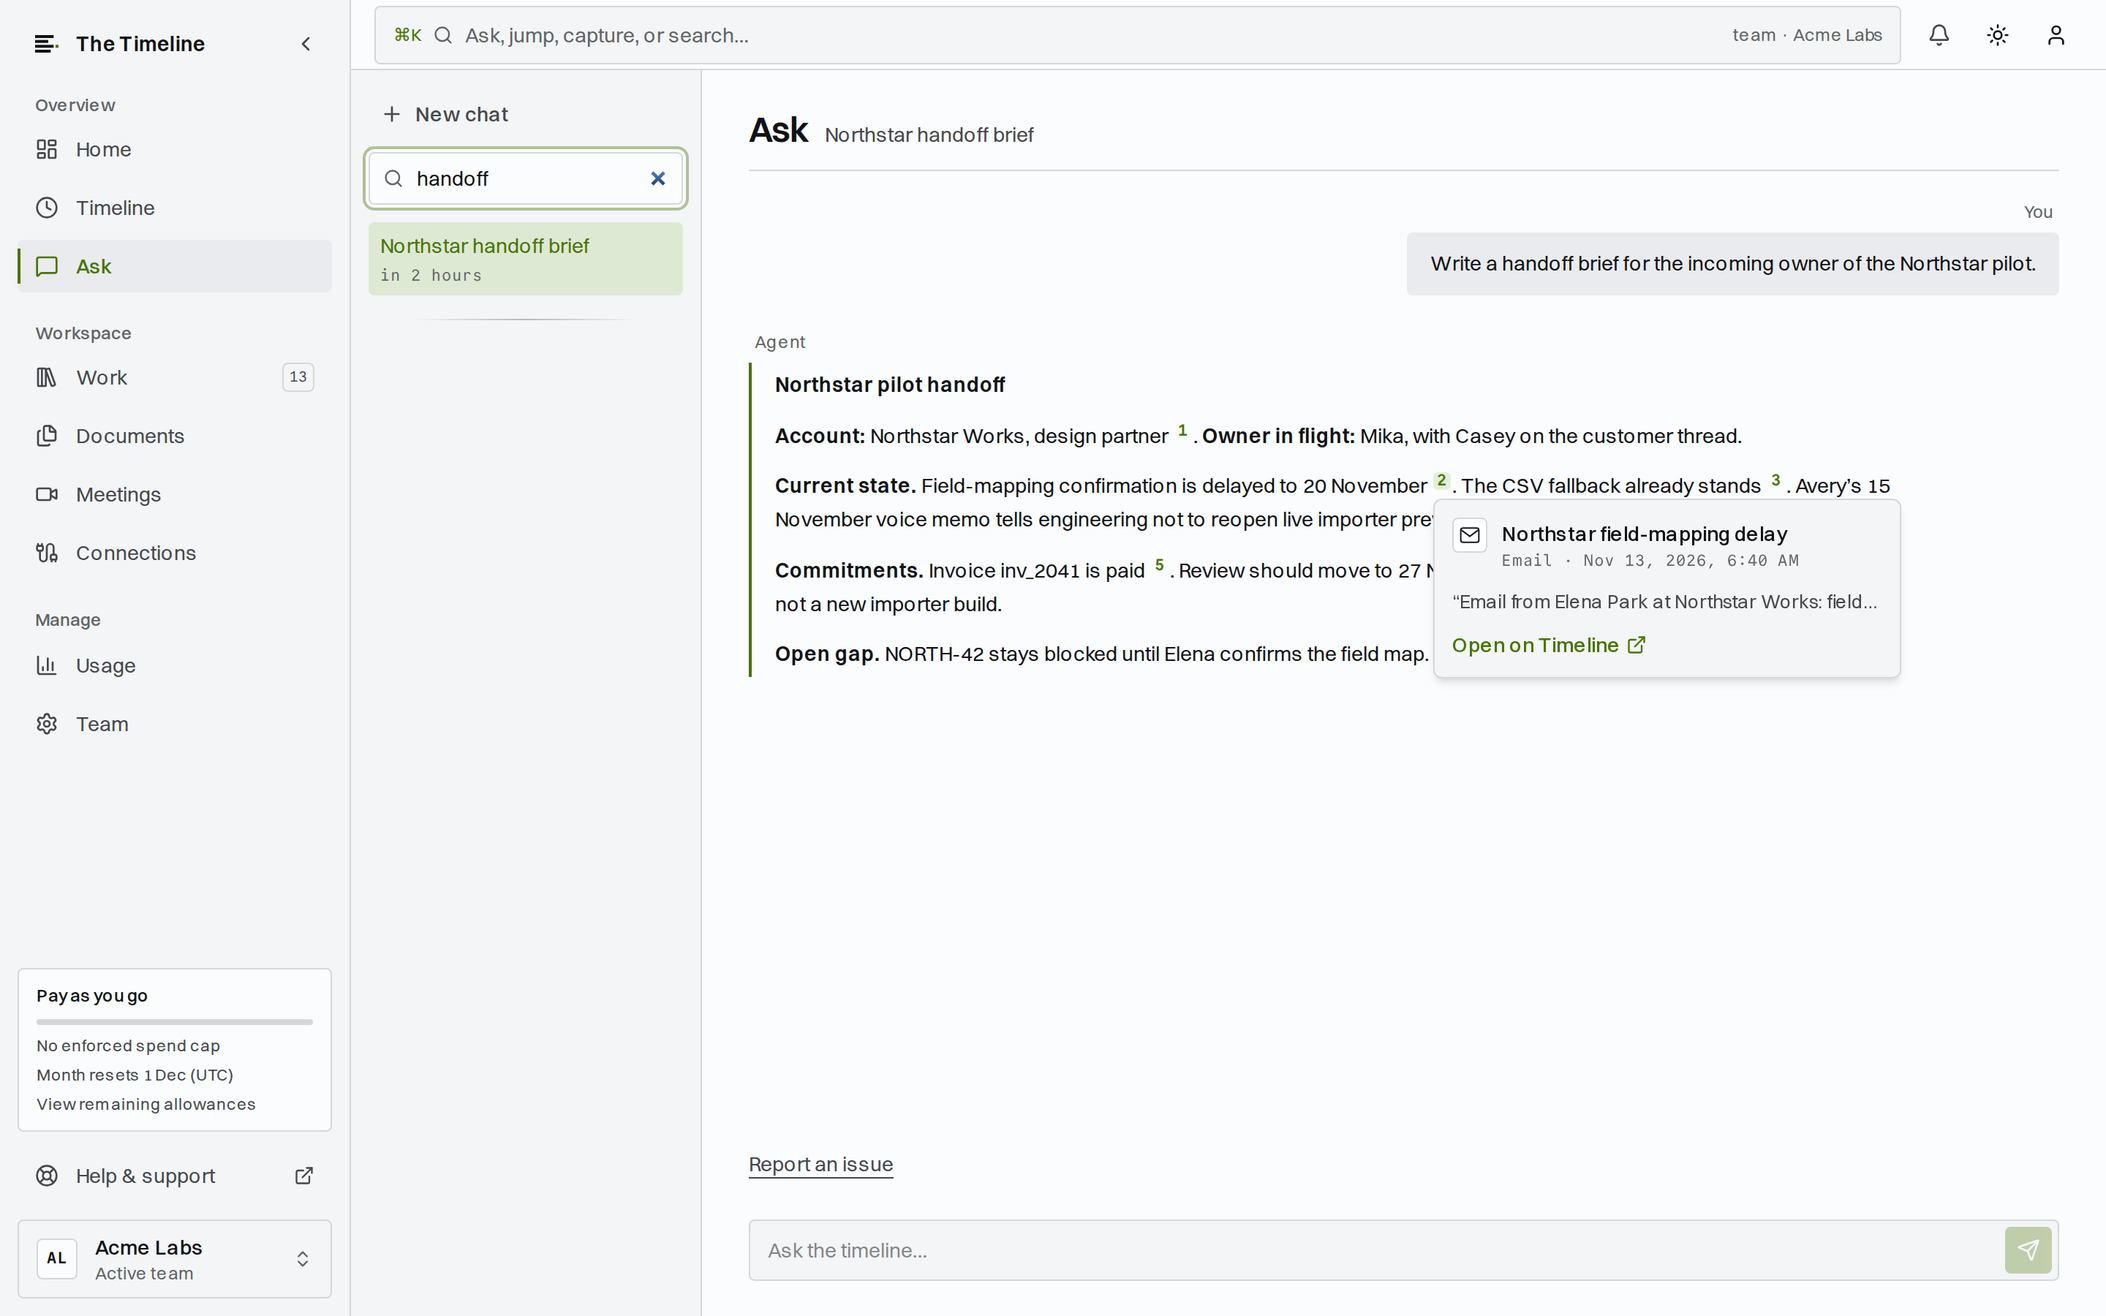
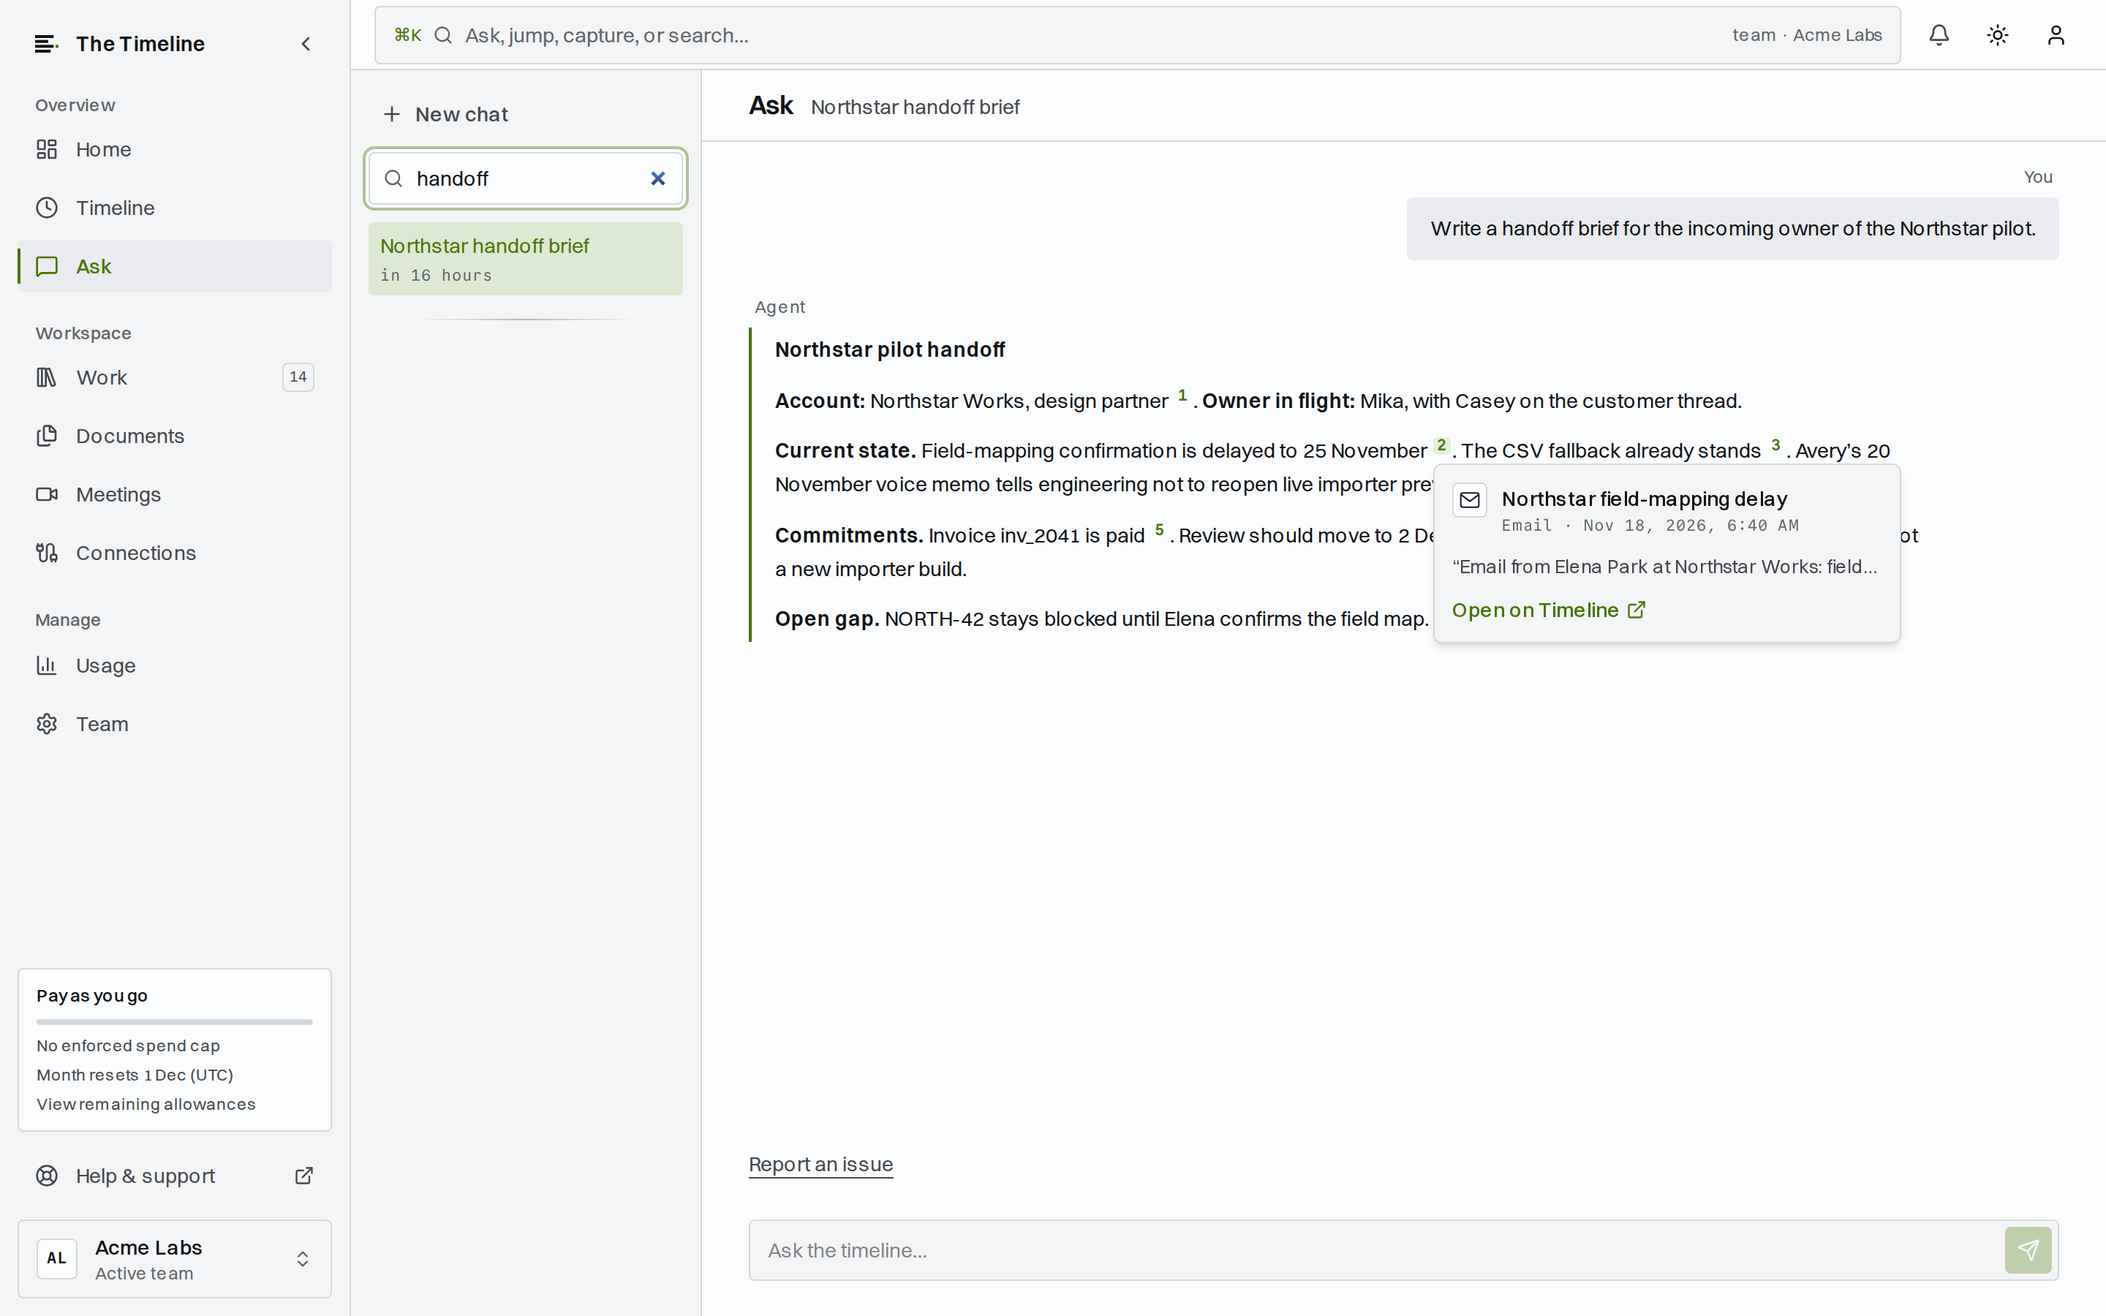
Refresh product-tour screenshots and add mobile Sources/project/Approvals (#598)
* Refresh product-tour screenshots and add mobile Sources/project/Approvals

Recapture seeded light/dark pairs marked for citation and demo-seed refresh,
add phone captures for Sources, project detail, and Approvals, and wire those
mobile assets into the tour below the md breakpoint.

* Stagger demo proposal and summary timestamps for marketing captures

Drive approval createdAt and object-summary generatedAt from evidence and
story source times so tour screenshots no longer share one seed-clock stamp.

* Fix marketing Approvals capture toast and pending count drift

Scope consent dismissal to analytics dialog/banner only so Approvals
Reject is never clicked mid-capture. Clear resolvedAt on corpus proposal
reseed so inventory counts stay aligned with the pending list after a
prior reject, then recapture 29/57 cleanly.

---------

Changed region(s): [[0.3438, 0.2489, 0.9062, 0.5289], [0.6875, 0.1556, 0.9688, 0.2178], [0.3438, 0.0622, 0.5, 0.1244]]

diff --git a/scripts/demo-corpus/insert.ts b/scripts/demo-corpus/insert.ts
@@ -169,6 +169,38 @@ function seedNow(): Date {
   return getDemoSeedNow();
 }
 
+function corpusEventOccurredAt(eventId: string): Date {
+  const row = CORPUS_EVENTS.find((event) => event.id === eventId);
+  if (!row) throw new Error(`Missing corpus event ${eventId}`);
+  return new Date(row.occurredAt);
+}
+
+/** Proposal times follow the triggering evidence, staggered by index so the queue does not share one seed clock. */
+export function demoProposalCreatedAt(eventOccurredAt: string | Date, proposalIndex: number): Date {
+  const base = new Date(eventOccurredAt).getTime();
+  if (!Number.isFinite(base)) {
+    throw new Error(`Invalid evidence time for demo proposal index ${String(proposalIndex)}`);
+  }
+  // 8–N minutes after the evidence so same-day proposals stay distinct without collapsing to seedNow.
+  return new Date(base + (8 + proposalIndex * 13) * 60_000);
+}
+
+/** Object-summary "Updated" stamps follow the latest cited source, not the seed wall clock. */
+export function demoSummaryGeneratedAt(
+  latestSourceOccurredAt: string | Date,
+  lagMinutes = 35,
+): Date {
+  const base = new Date(latestSourceOccurredAt).getTime();
+  if (!Number.isFinite(base)) {
+    throw new Error('Invalid source time for demo object summary');
+  }
+  return new Date(base + lagMinutes * 60_000);
+}
+
+function proposalCreatedAt(eventId: string, proposalIndex: number): Date {
+  return demoProposalCreatedAt(corpusEventOccurredAt(eventId), proposalIndex);
+}
+
 export async function insertExpandedDemoCorpus(tx: SeedTx): Promise<void> {
   const passwordHash = await hashPassword(CORPUS_PASSWORD);
   await insertPeople(tx, passwordHash);
@@ -1123,7 +1155,7 @@ async function insertObjects(tx: SeedTx): Promise<void> {
           tasks: 0,
           changes: 0,
         },
-        generatedAt: seedNow(),
+        generatedAt: demoSummaryGeneratedAt(corpusEventOccurredAt(dataRoomEventId), 42),
         model: DEMO_FIXTURE_VERSION,
         promptVersion: DEMO_FIXTURE_VERSION,
       },
@@ -1182,7 +1214,7 @@ async function insertObjects(tx: SeedTx): Promise<void> {
           tasks: 1,
           changes: 0,
         },
-        generatedAt: seedNow(),
+        generatedAt: demoSummaryGeneratedAt(corpusEventOccurredAt(northstarVoiceEventId), 28),
         model: DEMO_FIXTURE_VERSION,
         promptVersion: DEMO_FIXTURE_VERSION,
       },
@@ -1221,7 +1253,7 @@ async function insertObjects(tx: SeedTx): Promise<void> {
           tasks: 0,
           changes: 0,
         },
-        generatedAt: seedNow(),
+        generatedAt: demoSummaryGeneratedAt(corpusEventOccurredAt(invoicePaidEventId), 31),
         model: DEMO_FIXTURE_VERSION,
         promptVersion: DEMO_FIXTURE_VERSION,
       },
@@ -1234,6 +1266,7 @@ async function insertObjects(tx: SeedTx): Promise<void> {
         entityId: sql`excluded.entity_id`,
         sourceRefs: sql`excluded.source_refs`,
         sourceCounts: sql`excluded.source_counts`,
+        generatedAt: sql`excluded.generated_at`,
       },
     });
 
@@ -1665,21 +1698,24 @@ async function insertProposals(tx: SeedTx): Promise<void> {
   await tx
     .insert(agentSuggestions)
     .values(
-      CORPUS_PROPOSALS.map((row) => ({
-        id: row.id,
-        teamId: TEAM_ID,
-        source: row.source,
-        status: 'pending' as const,
-        title: row.title,
-        summary: row.summary,
-        reason: row.summary,
-        confidence: 'high' as const,
-        dedupeKey: `demo-seed:proposal:${row.id}`,
-        visibility: 'team' as const,
-        metadata: { fixture_version: DEMO_FIXTURE_VERSION },
-        createdAt: seedNow(),
-        updatedAt: seedNow(),
-      })),
+      CORPUS_PROPOSALS.map((row, index) => {
+        const createdAt = proposalCreatedAt(row.eventId, index);
+        return {
+          id: row.id,
+          teamId: TEAM_ID,
+          source: row.source,
+          status: 'pending' as const,
+          title: row.title,
+          summary: row.summary,
+          reason: row.summary,
+          confidence: 'high' as const,
+          dedupeKey: `demo-seed:proposal:${row.id}`,
+          visibility: 'team' as const,
+          metadata: { fixture_version: DEMO_FIXTURE_VERSION },
+          createdAt,
+          updatedAt: createdAt,
+        };
+      }),
     )
     .onConflictDoUpdate({
       target: agentSuggestions.id,
@@ -1689,26 +1725,36 @@ async function insertProposals(tx: SeedTx): Promise<void> {
         reason: sql`excluded.reason`,
         source: sql`excluded.source`,
         status: sql`excluded.status`,
-        updatedAt: seedNow(),
+        // Idempotent reseed must clear prior accept/reject residue so inventory
+        // counts (resolved_at IS NULL) match the pending list again.
+        resolvedAt: sql`NULL`,
+        resolvedByUserId: sql`NULL`,
+        createdAt: sql`excluded.created_at`,
+        updatedAt: sql`excluded.updated_at`,
       },
     });
   await tx
     .insert(agentSuggestionItems)
     .values(
-      CORPUS_PROPOSALS.map((row) => ({
-        id: row.itemId,
-        suggestionId: row.id,
-        teamId: TEAM_ID,
-        status: 'pending' as const,
-        operation: row.operation,
-        targetKind: row.targetKind,
-        targetId: 'targetId' in row ? row.targetId : null,
-        title: row.title,
-        description: row.summary,
-        dedupeKey: `demo-seed:proposal-item:${row.itemId}`,
-        proposedPayload: row.proposedPayload,
-        metadata: { fixture_version: DEMO_FIXTURE_VERSION },
-      })),
+      CORPUS_PROPOSALS.map((row, index) => {
+        const createdAt = proposalCreatedAt(row.eventId, index);
+        return {
+          id: row.itemId,
+          suggestionId: row.id,
+          teamId: TEAM_ID,
+          status: 'pending' as const,
+          operation: row.operation,
+          targetKind: row.targetKind,
+          targetId: 'targetId' in row ? row.targetId : null,
+          title: row.title,
+          description: row.summary,
+          dedupeKey: `demo-seed:proposal-item:${row.itemId}`,
+          proposedPayload: row.proposedPayload,
+          metadata: { fixture_version: DEMO_FIXTURE_VERSION },
+          createdAt,
+          updatedAt: createdAt,
+        };
+      }),
     )
     .onConflictDoUpdate({
       target: agentSuggestionItems.id,
@@ -1720,6 +1766,15 @@ async function insertProposals(tx: SeedTx): Promise<void> {
         description: sql`excluded.description`,
         proposedPayload: sql`excluded.proposed_payload`,
         status: sql`excluded.status`,
+        // Prior capture/reject left resolved_at while status was reset to pending,
+        // which made "To review/Pending" (counts) disagree with "Select all visible".
+        resolvedAt: sql`NULL`,
+        resolvedByUserId: sql`NULL`,
+        failureReason: sql`NULL`,
+        supersededByItemId: sql`NULL`,
+        supersededReason: sql`NULL`,
+        createdAt: sql`excluded.created_at`,
+        updatedAt: sql`excluded.updated_at`,
       },
     });
   await tx

diff --git a/apps/web/src/components/marketing/product-tour/content.ts b/apps/web/src/components/marketing/product-tour/content.ts
@@ -21,7 +21,7 @@ export const PRODUCT_TOUR = {
       file: '18-sources-light.png',
       alt: 'Sources page showing Telegram, Slack, email and synced tools connected to a workspace.',
       reshoot: undefined,
-      mobileFile: undefined,
+      mobileFile: '55-sources-mobile.png',
     },
     {
       index: '02',
@@ -30,7 +30,7 @@ export const PRODUCT_TOUR = {
         'Messages, notes, documents and code activity in order, each with who said it, where and when.',
       file: '11-timeline-dark.png',
       alt: 'Timeline chronology of messages, notes, documents and code activity.',
-      reshoot: 'To reshoot after citation redesign and seed update (demo dates).',
+      reshoot: undefined,
       mobileFile: '53-timeline-mobile.png',
     },
     {
@@ -40,7 +40,7 @@ export const PRODUCT_TOUR = {
         'A Telegram voice memo arrives with its transcript and the original audio, linked to its source.',
       file: '17-timeline-voice-dark.png',
       alt: 'Timeline event for a Telegram voice memo with transcript and original audio.',
-      reshoot: 'To reshoot after citation redesign and seed update (citation chip, demo dates).',
+      reshoot: undefined,
       mobileFile: undefined,
     },
     {
@@ -50,9 +50,8 @@ export const PRODUCT_TOUR = {
         'A project’s status, blocker and review date, written from the evidence and linked back to it.',
       file: '23-project-northstar-dark.png',
       alt: 'Project Northstar record with status, blocker and review date.',
-      reshoot:
-        'To reshoot after citation redesign and seed update (evidence chips, demo dates, Overdue tasks).',
-      mobileFile: undefined,
+      reshoot: undefined,
+      mobileFile: '56-project-northstar-mobile.png',
     },
     {
       index: '05',
@@ -61,7 +60,7 @@ export const PRODUCT_TOUR = {
         'A client record gathers its open tasks, pending approvals, documents and related evidence.',
       file: '22-client-northstar-dark.png',
       alt: 'Client record gathering open tasks, pending approvals, documents and related evidence.',
-      reshoot: 'To reshoot after citation redesign and seed update (demo dates, Overdue tasks).',
+      reshoot: undefined,
       mobileFile: undefined,
     },
     {
@@ -71,8 +70,8 @@ export const PRODUCT_TOUR = {
         'Proposed tasks, dates and record changes wait in a queue, each with why it was suggested and its source. Captured evidence still lands on the timeline automatically.',
       file: '29-approvals-dark.png',
       alt: 'Approvals queue of proposed tasks, dates and record changes.',
-      reshoot: 'To reshoot after citation redesign and seed update (demo dates).',
-      mobileFile: undefined,
+      reshoot: undefined,
+      mobileFile: '57-approvals-mobile.png',
     },
     {
       index: '07',
@@ -81,8 +80,7 @@ export const PRODUCT_TOUR = {
         'Highlights, status, follow-ups, new tasks and upcoming calendar, written once a day from the record.',
       file: '33-digest-dark.png',
       alt: 'Daily workspace update with highlights, status, follow-ups, new tasks and calendar.',
-      reshoot:
-        'To reshoot after citation redesign and seed update. Also capture from the top of the page.',
+      reshoot: undefined,
       mobileFile: undefined,
     },
     {
@@ -91,8 +89,7 @@ export const PRODUCT_TOUR = {
       caption: 'Every line cites where it came from.',
       file: '32-ask-handoff-dark.png',
       alt: 'Ask handoff brief with every line cited to its source.',
-      reshoot:
-        'To reshoot after citation redesign and seed update (citation chips). Remove the Last week recap chat from the Ask sidebar before reshooting.',
+      reshoot: undefined,
       mobileFile: '54-ask-recap-mobile.png',
     },
   ],

diff --git a/scripts/demo-fixture.test.ts b/scripts/demo-fixture.test.ts
@@ -11,6 +11,7 @@ import {
   dateAt,
   demoSeedNowIso,
   demoTimes,
+  getDemoSeedNow,
   isoAt,
   latestDigestDayOffset,
   localDay,
@@ -72,6 +73,7 @@ import {
   refreshDemoCorpus,
   type ExpandedDemoCorpusSnapshot,
 } from './demo-corpus/index.js';
+import { demoProposalCreatedAt, demoSummaryGeneratedAt } from './demo-corpus/insert.js';
 
 const localEnv = {
   DATABASE_URL: 'postgres://timeline:timeline_dev@localhost:5432/timeline',
@@ -1270,6 +1272,43 @@ function assertVerifyRestoresClockBeforeDocumentDownload(): void {
   }
 }
 
+function assertProposalAndSummaryTimestampsFollowEvidence(): void {
+  const root = dirname(fileURLToPath(import.meta.url));
+  const insertSource = readFileSync(join(root, 'demo-corpus', 'insert.ts'), 'utf8');
+  assert.match(insertSource, /function demoProposalCreatedAt/);
+  assert.match(insertSource, /function demoSummaryGeneratedAt/);
+  const proposalsBlock = insertSource.slice(
+    insertSource.indexOf('async function insertProposals'),
+    insertSource.indexOf('async function insertChats'),
+  );
+  assert.doesNotMatch(proposalsBlock, /createdAt:\s*seedNow\(\)/);
+  // Idempotent reseed must clear accept/reject residue or inventory counts drift
+  // from the pending list ("To review 10" vs "Select all visible 14").
+  assert.match(proposalsBlock, /resolvedAt:\s*sql`NULL`/);
+  assert.match(proposalsBlock, /resolvedByUserId:\s*sql`NULL`/);
+
+  refreshDemoCorpus();
+  const seedNow = getDemoSeedNow().getTime();
+  const proposalTimes = CORPUS_PROPOSALS.map((row, index) => {
+    const event = CORPUS_EVENTS.find((candidate) => candidate.id === row.eventId);
+    assert.ok(event, `proposal ${row.title} has evidence`);
+    const createdAt = demoProposalCreatedAt(event.occurredAt, index);
+    assert.ok(
+      createdAt.getTime() > new Date(event.occurredAt).getTime(),
+      `${row.title} should be after its evidence`,
+    );
+    assert.notEqual(createdAt.getTime(), seedNow, `${row.title} must not use the seed wall clock`);
+    return createdAt.toISOString();
+  });
+  assertUnique(proposalTimes, 'demo proposal createdAt values');
+
+  const voice = CORPUS_EVENTS.find((row) => row.contentText.includes('Voice memo from Avery'));
+  assert.ok(voice);
+  const summaryAt = demoSummaryGeneratedAt(voice.occurredAt, 28);
+  assert.ok(summaryAt.getTime() > new Date(voice.occurredAt).getTime());
+  assert.notEqual(summaryAt.getTime(), seedNow);
+}
+
 function assertDailyDigestConflictUpdatesWindows(): void {
   const root = dirname(fileURLToPath(import.meta.url));
   const source = readFileSync(join(root, 'demo-corpus', 'insert.ts'), 'utf8');
@@ -1309,3 +1348,4 @@ function assertDailyDigestConflictUpdatesWindows(): void {
 
 assertVerifyRestoresClockBeforeDocumentDownload();
 assertDailyDigestConflictUpdatesWindows();
+assertProposalAndSummaryTimestampsFollowEvidence();

diff --git a/apps/web/public/marketing/screenshots/README.md b/apps/web/public/marketing/screenshots/README.md
@@ -13,10 +13,15 @@ loading frames and presentation.
 
 Export the root `.env`, run `bun run db:migrate` and `bun run demo:seed`, start
 the web app, then run `bun run capture:marketing-screenshots`.
-Desktop shots are 1440×900 at device scale 2 (2880×1800 PNG); mobile shots are
-390×844 at device scale 2 (780×1688 PNG). Both themes are captured in one run.
-The script forces `tl-theme`, rejects public analytics consent, and asserts the
-`html.dark` class on dark captures. Timeline readiness uses a loaded moment, so a
-persisted seed clock does not need to fall on today’s date.
-Copy the PNGs from `/tmp/marketing-screenshots` into this directory. The script
-also copies dark mobile images to the existing unthemed filenames.
+Optional `CAPTURE_STEMS=11-timeline,55-sources-mobile` limits the run to named
+stems. Desktop shots are 1440×900 at device scale 2 (2880×1800 PNG); mobile
+shots are 390×844 at device scale 2 (780×1688 PNG). Both themes are captured in
+one run. Product-tour phone slots currently use `53-timeline-mobile`,
+`54-ask-recap-mobile`, `55-sources-mobile`, `56-project-northstar-mobile`, and
+`57-approvals-mobile`. The script forces `tl-theme`, dismisses only the public
+analytics consent dialog/banner (`Reject analytics` / banner `Reject` scoped to
+`[data-analytics-choice-banner]` — never bare Approvals `Reject`), and asserts
+the `html.dark` class on dark captures. Timeline readiness uses a loaded moment,
+so a persisted seed clock does not need to fall on today’s date. Copy the PNGs
+from `/tmp/marketing-screenshots` into this directory. The script also copies
+dark mobile images to the existing unthemed filenames.

diff --git a/docs/design/public.md b/docs/design/public.md
@@ -189,8 +189,11 @@ Each screenshot reserves its aspect box and shows a loading label until painted.
 Screenshots are display-only, without links, zoom actions or instructions to click.
 Inventory tests require both twins, including legacy unthemed mobile slots.
 See the [recapture guide](../../apps/web/public/marketing/screenshots/README.md).
-Landscape slots use a 16×10 top crop; mobile
-portrait slots keep the full capture so Ask citations stay in frame. The
+The product tour uses phone captures for Sources, Timeline, project detail,
+Approvals, and Ask (`53`–`57` mobile stems) below the `md` breakpoint, keeping
+desktop landscape frames on larger viewports. Landscape slots use a 16×10 top
+crop; mobile portrait slots keep the full capture so Ask citations stay in
+frame. The
 homepage shows proof shots in alternating split rows (screenshot beside the
 copy, stacked on small screens): voice notes, work record, stored cited Ask
 answer, client record, and daily update. On small screens those landscape
